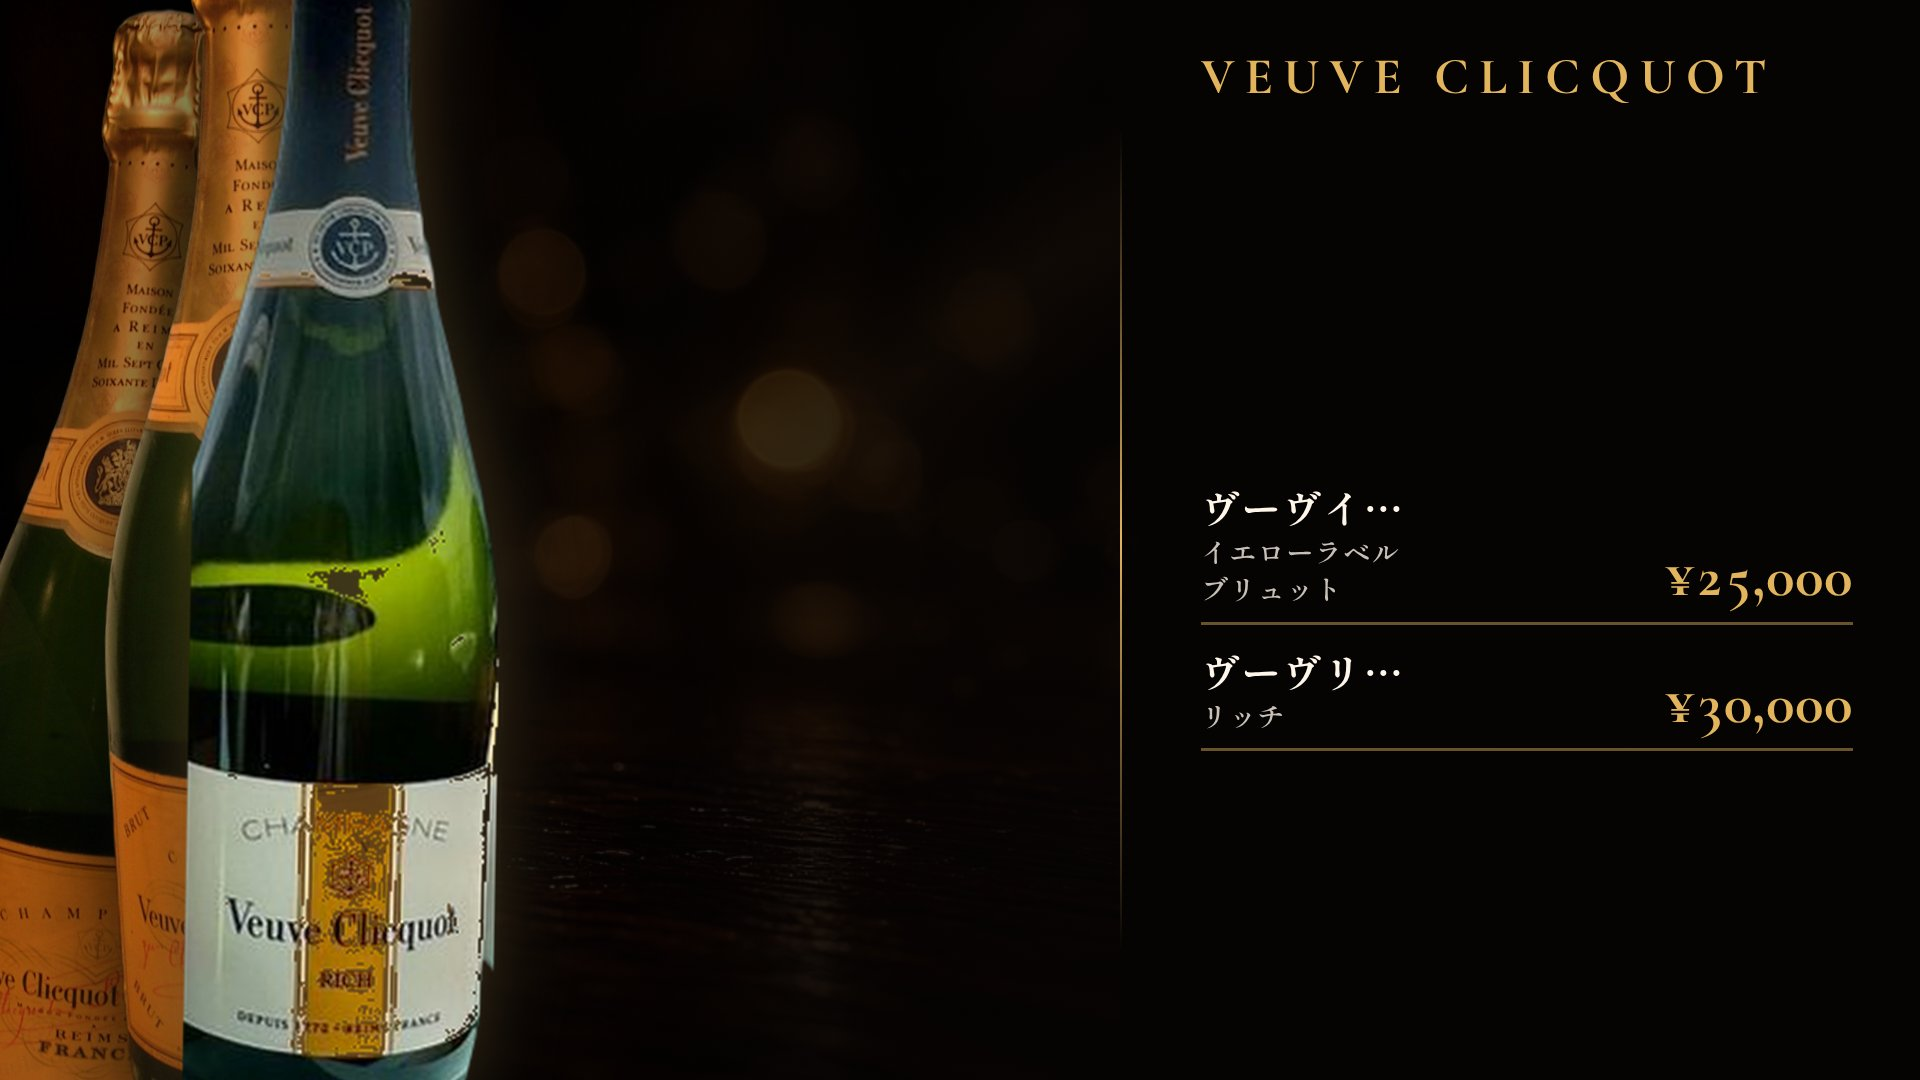
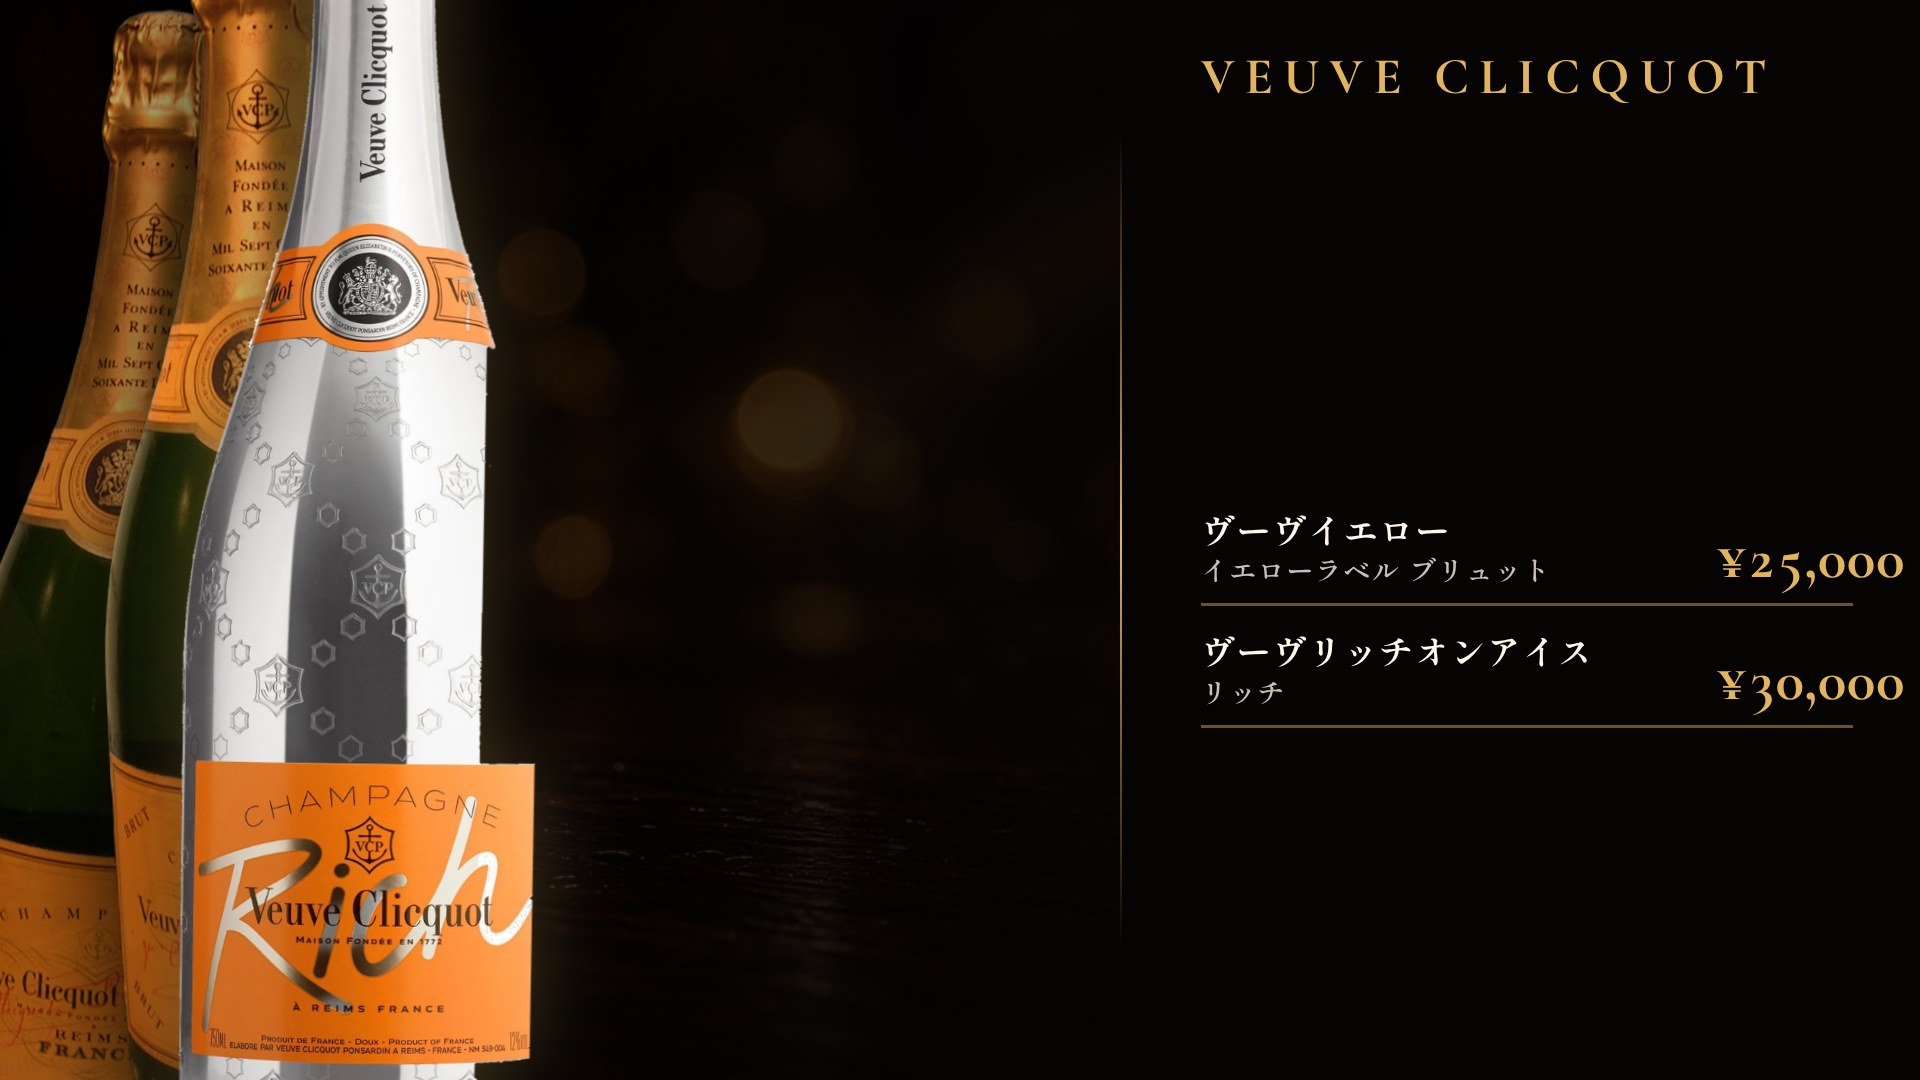
Fix Veuve Rich cutout and align price column
Replace the damaged Rich bottle (striped float remnants / mid-body holes)
with a clean studio cutout, and lock menu prices to a fixed 8.5em column
so nicknames stay fully visible and ¥ amounts line up.

Changed region(s): [[0.0938, 0.0, 0.2812, 1.0], [0.625, 0.4583, 1.0, 0.7028]]

diff --git a/designs/final-veuve-series.css b/designs/final-veuve-series.css
@@ -13,10 +13,10 @@
 .panel .title-zone{flex:0 0 22%;display:flex;align-items:flex-start;padding-top:4.5vh;min-height:0}
 .panel .title{position:static;margin:0;transform:none;left:auto;right:auto;top:auto;font-size:clamp(1.9rem,3.6vw,3.2rem);letter-spacing:.2em;white-space:nowrap}
 .list{flex:1;margin-top:0;display:flex;flex-direction:column;justify-content:center;gap:2.4vh;min-height:0;width:100%}
-.list .nick{white-space:nowrap;font-size:clamp(1.45rem,2.7vw,2.45rem);letter-spacing:.04em;overflow:hidden;text-overflow:ellipsis}
-.row{display:grid;grid-template-columns:minmax(0,1fr) auto;align-items:end;column-gap:1.6rem;width:100%;border-bottom:3px solid rgba(226,180,92,.45);padding-bottom:1.4vh}
-.row>div{min-width:0;overflow:hidden}
-.list .price{justify-self:end;text-align:right;white-space:nowrap;min-width:6.8em;font-variant-numeric:tabular-nums;font-feature-settings:"tnum";margin:0}
+.list .nick{white-space:nowrap;font-size:clamp(1.35rem,2.35vw,2.15rem);letter-spacing:.04em}
+.row{display:grid;grid-template-columns:minmax(0,1fr) 8.5em;align-items:end;column-gap:1.2rem;width:100%;border-bottom:3px solid rgba(226,180,92,.45);padding-bottom:1.4vh}
+.row>div{min-width:0}
+.list .price{justify-self:end;text-align:right;width:100%;white-space:nowrap;font-variant-numeric:tabular-nums;font-feature-settings:"tnum";margin:0}
 .panel::before{content:"";position:absolute;left:0;top:12%;bottom:12%;width:2px;background:linear-gradient(180deg,transparent,var(--gold),transparent)}
 .ghost{display:none}.floor{display:none}
 
